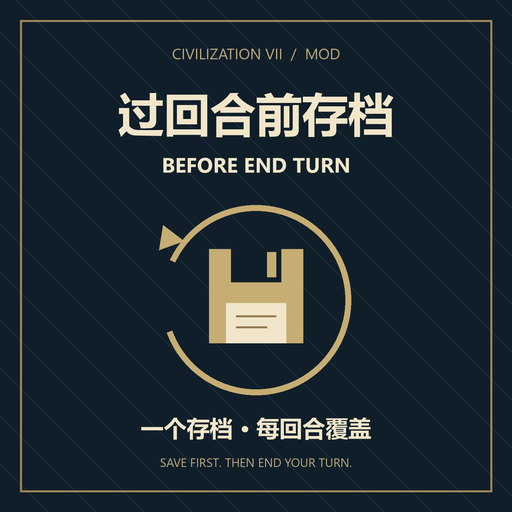
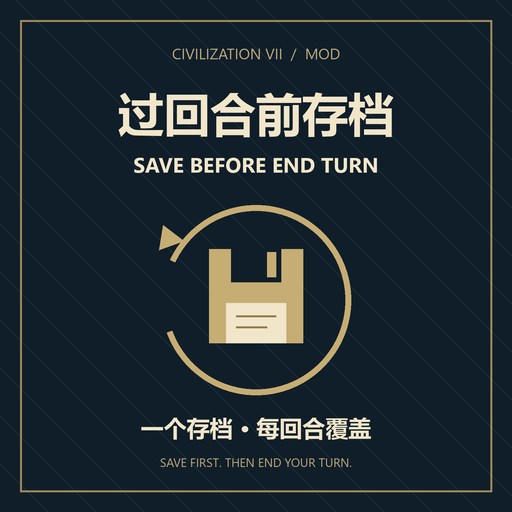
Rename to Save Before End Turn and add native save screenshot

Changed region(s): [[0.25, 0.2812, 0.75, 0.3438]]

diff --git a/README.md b/README.md
@@ -1,6 +1,6 @@
-# 过回合前存档 · Before End Turn
+# Save Before End Turn（过回合前存档）
 
-版本：1.0.0（首次公开预览版）。面向 Windows《文明 VII》单人游戏。
+版本：1.0.1（公开预览版）。面向 Windows《文明 VII》单人游戏。
 
 [Steam 创意工坊订阅](https://steamcommunity.com/sharedfiles/filedetails/?id=3815596737) · [GitHub 源码](https://github.com/Stupidism/civ7-before-end-turn) · [版本下载](https://github.com/Stupidism/civ7-before-end-turn/releases)
 
@@ -11,7 +11,7 @@
 ## 使用
 
 1. 完全退出游戏后重新启动。
-2. 在主菜单的模组管理中确认 **过回合前存档 · Before End Turn** 已启用。
+2. 在主菜单的模组管理中确认 **Save Before End Turn** 已启用。
 3. 载入已有单人存档，正常操作并点击“下一回合”。存档过程中会短暂显示“正在保存过回合前的进度…”。
 4. 需要反悔时，打开 **载入游戏 → 本地存档**，选择 **BeforeEndTurn**。这是普通本地存档列表中的固定条目。
 
@@ -20,6 +20,10 @@
 这个模组维护 **一个固定存档槽**：每次覆盖同一个 `BeforeEndTurn`，文件名不附加回合、时代或日期。同一台电脑上的不同单人对局也共用这一槽位；需要长久保留某个节点时，请另存一个手动档。
 
 官方自动存档继续遵循你原来的设置。模组的固定槽独立于快速存档，因此 F5 快存和快速载入仍对应官方快速存档，而不是 `BeforeEndTurn`。
+
+![真实游戏载入界面，选中 BeforeEndTurn 本地存档](docs/before-end-turn-save.jpg)
+
+上图为本机实际“载入游戏 → 本地”界面，选中了已有的 `BeforeEndTurn` 存档。截图展示存档位置，不代表已完成当前版本的存档/读档全流程验证。
 
 ## 安装与卸载
 

diff --git a/CHANGELOG.md b/CHANGELOG.md
@@ -1,5 +1,13 @@
 # Changelog
 
+## 1.0.1 — 2026-10-08
+
+- Rename the displayed mod title to **Save Before End Turn**.
+- Update the Workshop cover and add a real in-game screenshot of the `BeforeEndTurn` local save.
+- Keep the mod ID, save filename and runtime behavior unchanged.
+
+The screenshot shows an existing save in the native load menu; a save/load round trip for this release is still unverified.
+
 ## 1.0.0 — 2026-10-08
 
 First public preview release.
